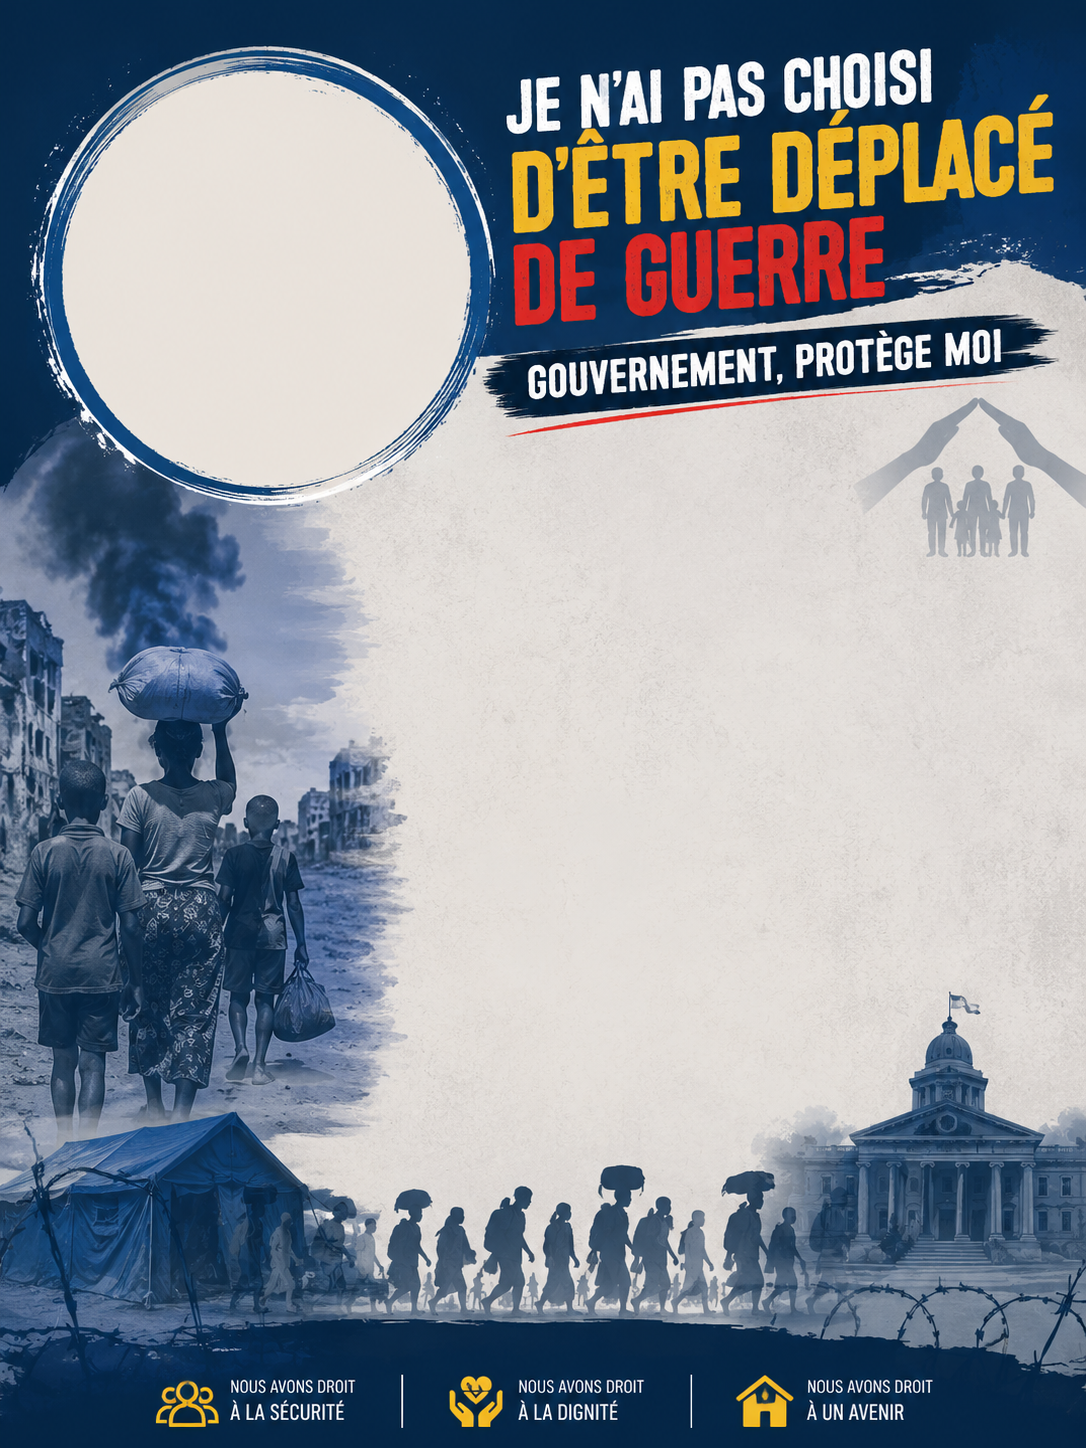
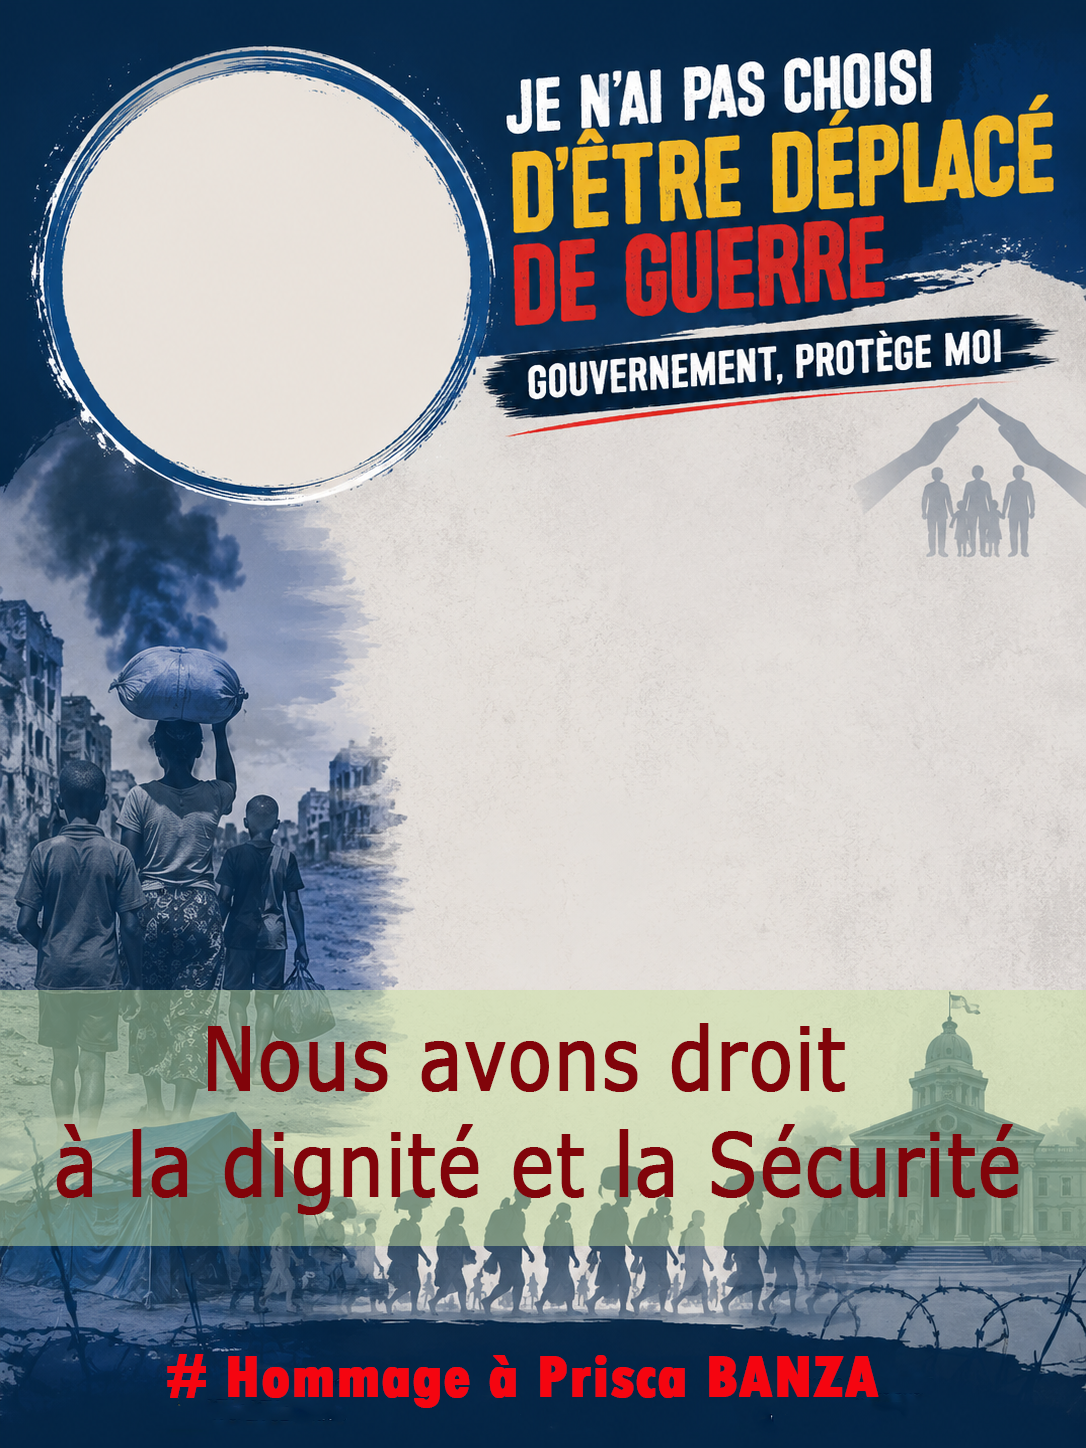
finale

Changed region(s): [[0.0, 0.6837, 1.0, 0.8702], [0.1519, 0.9323, 0.8508, 0.9945]]

diff --git a/style.css b/style.css
@@ -1,20 +1,18 @@
-/* Styles généraux pour la page */
 * {
     margin: 0;
     padding: 0;
     box-sizing: border-box;
-    font-family: 'Helvetica Neue', Helvetica, Arial, sans-serif; /* Police plus moderne */
+    font-family: 'Helvetica Neue', Helvetica, Arial, sans-serif;
 }
 
 body {
-    background-color: #f0f2f5; /* Fond de page gris clair */
+    background-color: #f0f2f5;
     display: flex;
     flex-direction: column;
     align-items: center;
     padding: 40px;
 }
 
-/* Styles pour le panneau de contrôle (le formulaire) */
 .container {
     background: white;
     padding: 25px;
@@ -28,24 +26,27 @@ body {
     justify-content: center;
     width: 100%;
     max-width: 800px;
+  
+
 }
 
 .container h1 {
     width: 100%;
     text-align: center;
-    margin-bottom: 15px;
+    margin-bottom: 10px;
     color: #333;
 }
 
-.container input {
+.container input, .container textarea {
     padding: 12px 15px;
     border: 1px solid #ddd;
     border-radius: 8px;
-    flex-grow: 1;
+    width: 100%;
+    font-family: inherit;
 }
 
 button {
-    background-color: #0056b3; /* Bleu plus soutenu */
+    background-color: #0056b3;
     color: white;
     padding: 12px 24px;
     border: none;
@@ -54,6 +55,7 @@ button {
     font-size: 16px;
     font-weight: bold;
     transition: background-color 0.3s;
+    width: 100%;
 }
 
 button:hover {
@@ -61,17 +63,17 @@ button:hover {
 }
 
 /* === Structure de l'Affiche === */
-/* === Conteneur Principal de l'Affiche === */
+/* === Structure de l'Affiche === */
 #affiche {
-    width: 700px;
-    height: 900px; /* ou la hauteur exacte proportionnelle à votre image */
+    width: 1100px;
+    height: 1500px;
     position: relative;
     overflow: hidden;
-    background-image: url('img/design.png'); /* Remplacez par le chemin vers votre image de fond */
-    background-size: cover;
-    background-position: center;
-}
+    background-image: url(img/design.png);
+   }
 
+
+/* L'image de fond globale */
 .fond {
     width: 100%;
     height: 100%;
@@ -82,25 +84,17 @@ button:hover {
     z-index: 1;
 }
 
-/* === Positionnement de la Photo de Profil === 
-   Ces valeurs permettent d'aligner parfaitement l'image au centre du grand cercle dessiné */
+/* === 1. PHOTO DE PROFIL (Placée pile au centre du cercle) === */
 .profil-container {
     position: absolute;
-    
-    /* Repositionnement précis sur le cercle bleu du template */
-    top: 32px;      /* Décale vers le bas */
-    left: 36px;     /* Décale vers la droite */
-    width: 282px;   /* Agrandit pour remplir exactement le cercle au pinceau */
-    height: 282px;
-    
+    /* Ajustement exact pour caler le rond dans le tracé au pinceau */
+    top: 80px;
+    left: 65px;
+    width: 400px;
+    height: 400px;
     border-radius: 50%;
     overflow: hidden;
-    z-index: 2; /* Se place au-dessus du fond */
-    
-    /* Suppression des bordures blanches/bleues (déjà présentes sur le visuel) */
-    border: none;
-    outline: none;
-    box-shadow: none;
+    z-index: 2;
 }
 
 #profil {
@@ -110,21 +104,28 @@ button:hover {
     display: block;
 }
 
-/* === Positionnement du Nom === */
 #nomAffiche {
     position: absolute;
-    
-    /* Position sur le bandeau noir "GOUVERNEMENT, PROTÈGE MOI" ou en bas */
-    bottom: 40px;   /* Positionné vers le bas de l'affiche */
-    left: 0;
-    width: 100%;    /* Centré sur toute la largeur */
-    text-align: center;
-    
-    color: #ffffff; /* Texte blanc bien visible */
-    font-size: 32px;
+    top: 500px;            /* Placé au niveau du centre blanc */
+    left: 450px;           /* Décalé vers la droite pour libérer le cercle */
+    width: 400px;          /* S'adapte à l'espace blanc disponible */
+    color: #1a2a40;        /* Bleu nuit très foncé */
+    font-size: 34px;       /* Taille lisible sans déborder */
     font-weight: 900;
-    text-transform: uppercase;
-    text-shadow: 2px 2px 6px rgba(0, 0, 0, 0.8);
-    z-index: 3;
-
+    text-align: center;
+    line-height: 1.15;
+    word-wrap: break-word;
+    z-index: 10;
+}
+#messageAffiche {
+    position: absolute;
+    bottom: 550px;         /* Remonté au-dessus de la foule pour rester sur fond clair */
+    left: 400px;           /* Aligné dans la partie blanche de droite */
+    width: 560px;          /* Largeur ajustée à la zone blanche */
+    color: #1a2a40;        /* Sombre pour un contraste parfait sur fond blanc */
+    font-size: 24px;       /* Ajusté pour que le paragraphe complet tienne bien */
+    font-weight: 700;
+    line-height: 1.35;
+    text-align: justify;   /* Texte bien aligné à gauche et à droite */
+    z-index: 10;
 }

diff --git a/index.html b/index.html
@@ -1,16 +1,15 @@
 <!DOCTYPE html>
 <html lang="fr">
 <head>
-<meta charset="UTF-8">
-<meta name="viewport" content="width=device-width, initial-scale=1.0">
-<title>Rejoins la campagne</title>
+    <meta charset="UTF-8">
+    <meta name="viewport" content="width=device-width, initial-scale=1.0">
+    <title>Rejoins la campagne</title>
 
-<!-- Lien vers votre fichier CSS -->
-<link rel="stylesheet" href="style.css">
+    <!-- Fichier CSS -->
+    <link rel="stylesheet" href="style.css">
 
-<!-- Bibliothèque html2canvas pour la capture -->
-<script src="https://cdnjs.cloudflare.com/ajax/libs/html2canvas/1.4.1/html2canvas.min.js"></script>
-
+    <!-- Bibliothèque html2canvas pour la capture -->
+    <script src="https://cdnjs.cloudflare.com/ajax/libs/html2canvas/1.4.1/html2canvas.min.js"></script>
 </head>
 <body>
 
@@ -20,30 +19,35 @@
     <!-- Zone de saisie pour le nom -->
     <input type="text" id="nom" placeholder="Votre nom complet">
     
+    <!-- Zone de saisie pour le message (préremplie) -->
+    <textarea id="messageInput" placeholder="Votre message d'interpellation" rows="3">Nous n’avons pas choisi de fuir nos terres. Nous avons droit à la sécurité, à la dignité et à la protection. Gouvernement de la République, votre devoir est de protéger chaque citoyen où qu’il se trouve. Ne laissez pas les familles déplacées vivre dans l’oubli. Agissez maintenant pour la paix, la justice et le retour sécurisé des déplacés dans leurs foyers.</textarea>
+    
     <!-- Zone de sélection de la photo -->
     <input type="file" id="photo" accept="image/*">
     
-    <!-- Bouton pour déclencher le téléchargement -->
+    <!-- Bouton de téléchargement -->
     <button onclick="telecharger()">
         Télécharger mon affiche
     </button>
 </div>
 
-<!-- C'est cette partie qui sera convertie en image -->
+<!-- Zone de l'affiche à capturer -->
 <div id="affiche">
-    <!-- Remplacez le src par le nom exact de votre image de template -->
     <img src="design.png" class="fond" alt="Fond de l'affiche">
     
-    <!-- Conteneur de la photo de profil -->
+    <!-- Photo de profil -->
     <div class="profil-container">
-        <img id="profil" src="" alt="">
+        <img height="160" width="140" id="profil" src="" alt="Photo de profil">
     </div>
     
-    <!-- Le Nom de la personne -->
-    <h2 id="nomAffiche"> <input type="text" id="nomInput" placeholder="Votre nom"> </h2>
+    <!-- NOM -->
+    <h2 id="nomAffiche">VOTRE NOM ICI</h2>
+
+    <!-- MESSAGE INTERPELLATEUR EXACT -->
+    <p id="messageAffiche">NOUS N’AVONS PAS CHOISI DE FUIR NOS TERRES. NOUS AVONS DROIT À LA SÉCURITÉ, À LA DIGNITÉ ET À LA PROTECTION. GOUVERNEMENT DE LA RÉPUBLIQUE, VOTRE DEVOIR EST DE PROTÉGER CHAQUE CITOYEN OÙ QU’IL SE TROUVE. NE LAISSEZ PAS LES FAMILLES DÉPLACÉES VIVRE DANS L’OUBLI. AGISSEZ MAINTENANT POUR LA PAIX, LA JUSTICE ET LE RETOUR SÉCURISÉ DES DÉPLACÉS DANS LEURS FOYERS.</p>
 </div>
 
-<!-- Lien vers votre fichier JavaScript -->
+<!-- Fichier JavaScript -->
 <script src="script.js"></script>
 
 </body>

diff --git a/script.js b/script.js
@@ -1,40 +1,49 @@
-let photo=document.getElementById("photo");
-let profil=document.getElementById("profil");
+let photo = document.getElementById("photo");
+let profil = document.getElementById("profil");
+let nomInput = document.getElementById("nom");
+let nomAffiche = document.getElementById("nomAffiche");
+let messageInput = document.getElementById("messageInput");
+let messageAffiche = document.getElementById("messageAffiche");
 
-photo.addEventListener("change",function(){
+// 1. Photo de profil
+photo.addEventListener("change", function () {
+    let fichier = this.files[0];
+    if (fichier) {
+        let reader = new FileReader();
+        reader.onload = function (e) {
+            profil.src = e.target.result;
+        };
+        reader.readAsDataURL(fichier);
+    }
+});
 
-let fichier=this.files[0];
+// 2. Mise à jour dynamique du Nom
+nomInput.addEventListener("input", function () {
+    if (this.value.trim() === "") {
+        nomAffiche.innerText = "VOTRE NOM ICI";
+    } else {
+        nomAffiche.innerText = this.value.toUpperCase();
+    }
+});
 
-let reader=new FileReader();
-
-reader.onload=function(e){
-
-profil.src=e.target.result;
-
+// 3. Mise à jour dynamique du Message
+if (messageInput) {
+    messageInput.addEventListener("input", function () {
+        messageAffiche.innerText = this.value.toUpperCase();
+    });
 }
 
-reader.readAsDataURL(fichier);
+// 4. Téléchargement de l'affiche
+function telecharger() {
+    let afficheElement = document.getElementById("affiche");
 
-});
-
-document.getElementById("nom").addEventListener("input",function(){
-
-document.getElementById("nomAffiche").innerHTML=this.value;
-
-});
-
-function telecharger(){
-
-html2canvas(document.getElementById("affiche")).then(canvas=>{
-
-let lien=document.createElement("a");
-
-lien.download="affiche.png";
-
-lien.href=canvas.toDataURL();
-
-lien.click();
-
-});
-
+    html2canvas(afficheElement, {
+        useCORS: true,
+        scale: 2
+    }).then(canvas => {
+        let lien = document.createElement("a");
+        lien.download = "affiche-campagne.png";
+        lien.href = canvas.toDataURL("image/png");
+        lien.click();
+    });
 }
